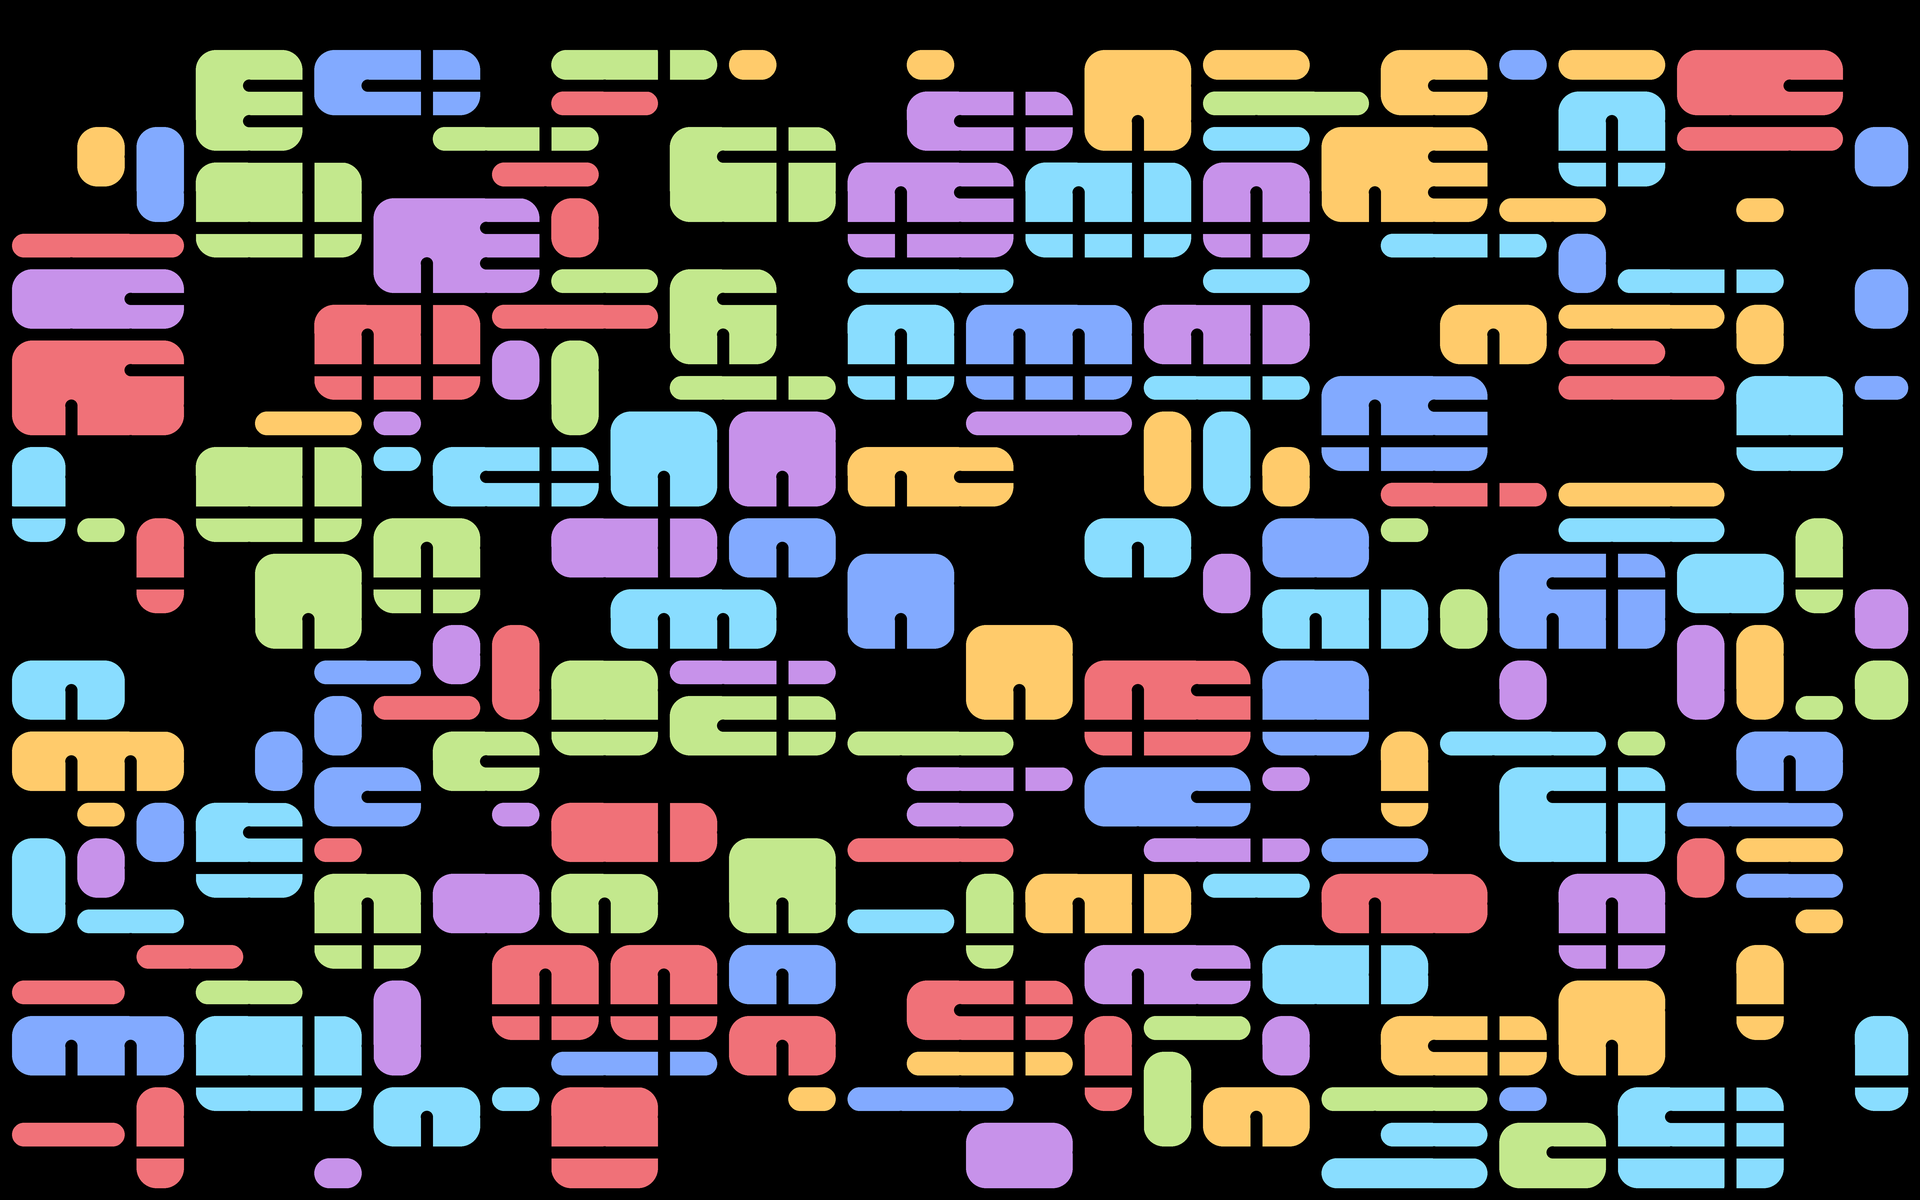
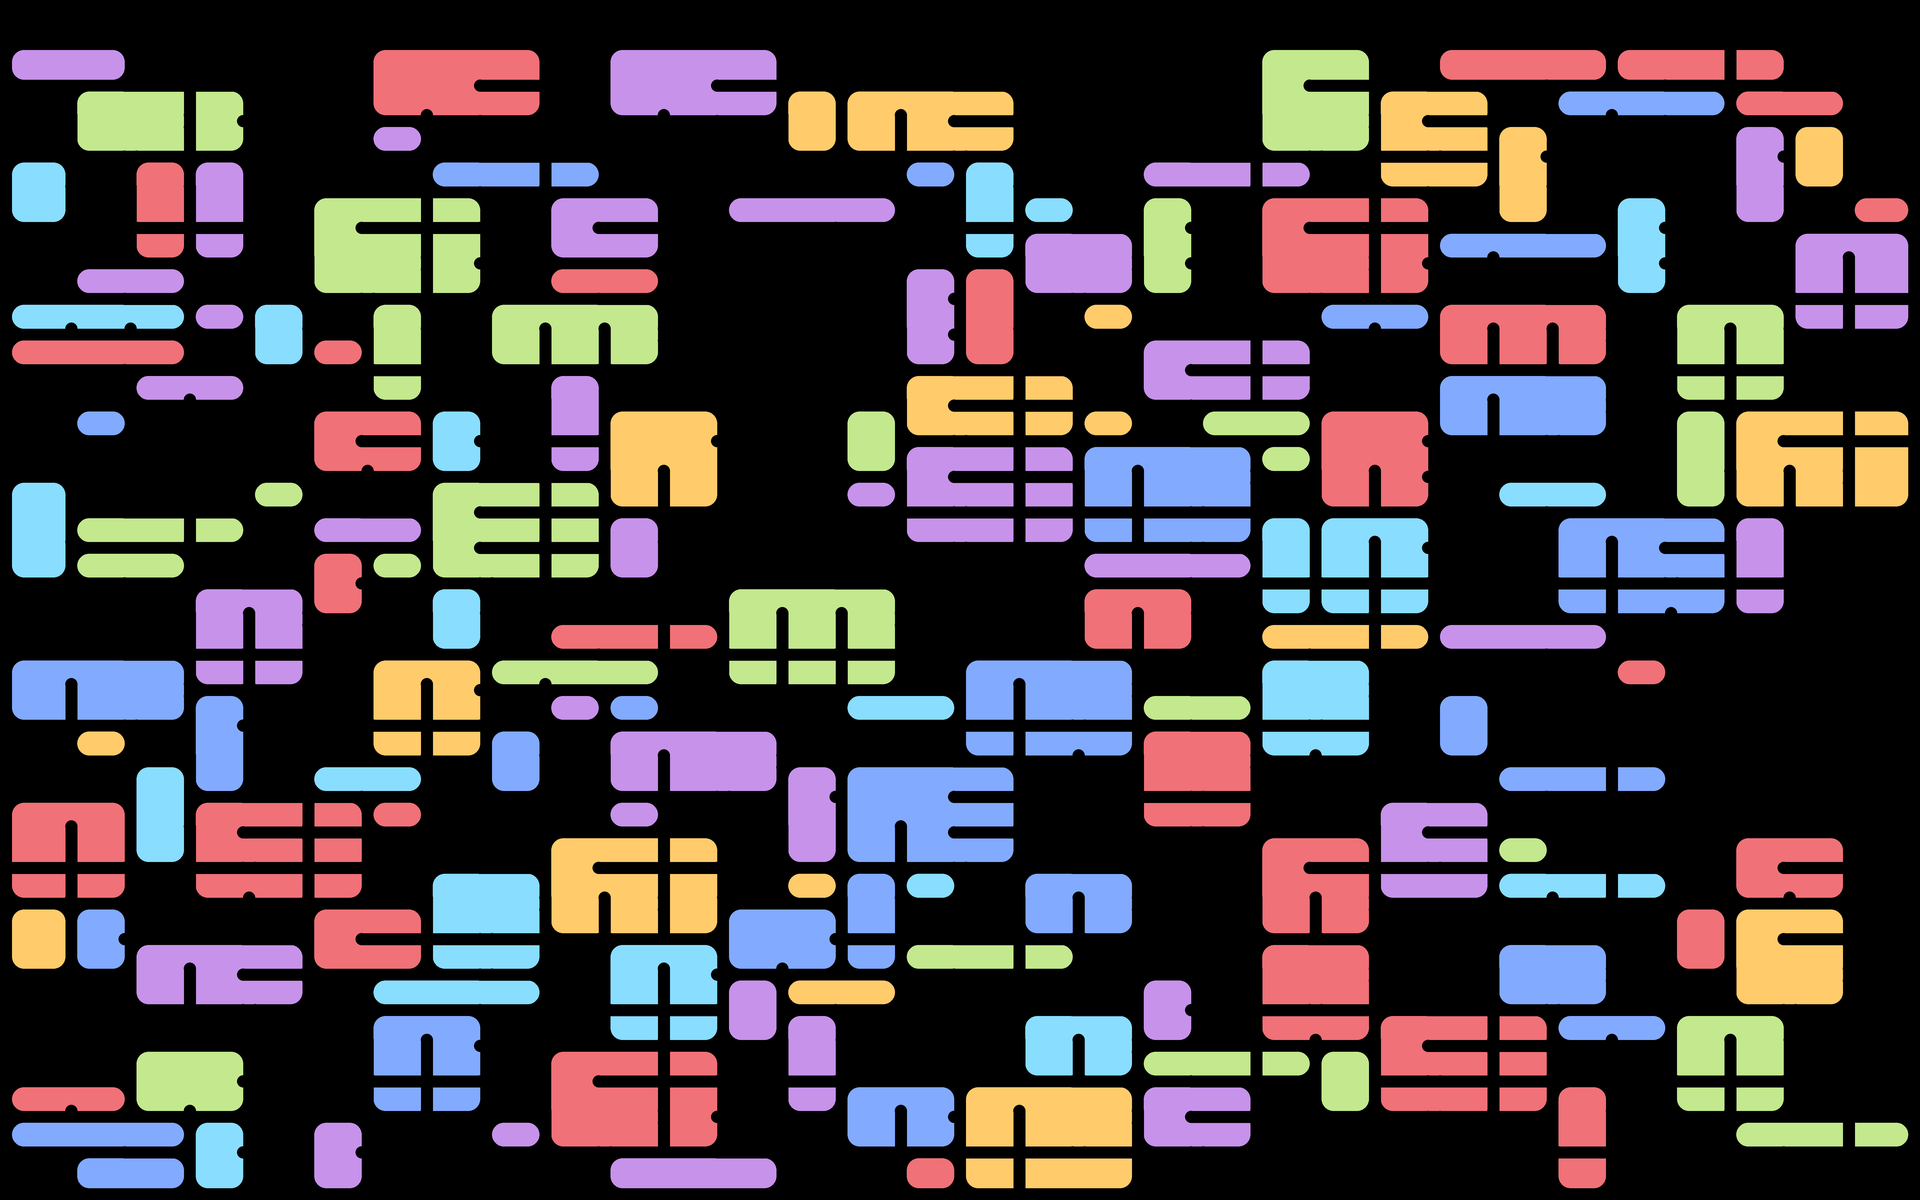
Refines shape rendering and grid line styling
Adjusts parameters for shape rendering, including reduced fill probability, smaller corner radius, and explicit shape padding. Improves grid line styling by introducing configurable line thickness, rounded ends, and extensions. Enhances rendering scalability with higher resolution adjustments.

Updates related binary wallpaper assets.

diff --git a/wallpapers/doodle_wallpaper.py b/wallpapers/doodle_wallpaper.py
@@ -26,12 +26,15 @@ MONITORS = [
 MIN_DEPTH = 2  # Minimum recursion depth (smaller shapes)
 MAX_DEPTH = 6  # Maximum recursion depth (larger shapes)
 RANDOM_SEED = None  # Set to None for truly random, or a number for reproducible results
-FILL_PROBABILITY = 0.5  # Probability (0-1) that a cell will be filled
-CORNER_RADIUS = 20  # Corner radius for rounded rectangles
+FILL_PROBABILITY = 0.4  # Probability (0-1) that a cell will be filled
+CORNER_RADIUS = 12  # Corner radius for rounded rectangles
 MAX_MERGE_SIZE = 3  # Maximum size of merged cells (1 = no merging, 2 = 2x2, 3 = 3x3, etc.)
 RENDER_SCALE = 4  # Render at higher resolution and downsample for smoother edges
 DRAW_GRID_LINES = True  # Set to True to draw grid lines for alignment verification
-SHAPE_MARGIN = 0.5  # Margin multiplier for shapes (0.5 = half gap, 1.0 = full gap, etc.)
+SHAPE_PADDING = 6  # Padding for shapes in pixels
+LINE_THICKNESS = 12  # Thickness of lines in pixels
+LINE_ROUNDED_ENDS = True  # Set to True to draw rounded end caps on lines
+LINE_EXTEND_ENDS = True  # Set to True to extend lines by radius amount
 GRID_LINE_COLOR = (0, 0, 0)  # Color for grid lines (default: black)
 
 # Color Palette (RGB tuples)
@@ -142,22 +145,31 @@ def draw_recursive_shapes(draw, x, y, w, h, level, min_level, padding, filled_ce
     
     # Draw grid lines if enabled (for debugging)
     if DRAW_GRID_LINES:
-        line_width = int(gap_px)  # Match gap width
+        line_width = int(LINE_THICKNESS * RENDER_SCALE)
         radius = line_width // 2
         
-        # Vertical line with rounded ends (extends to merge with caps)
-        draw.line([(mid_x, y), (mid_x, y + h)], fill=GRID_LINE_COLOR, width=line_width)
-        # Top circle cap centered at intersection
-        draw.ellipse([(mid_x - radius, y - radius), (mid_x + radius, y + radius)], fill=GRID_LINE_COLOR)
-        # Bottom circle cap centered at intersection
-        draw.ellipse([(mid_x - radius, y + h - radius), (mid_x + radius, y + h + radius)], fill=GRID_LINE_COLOR)
+        # Calculate line extension based on parameter
+        extend = radius if LINE_EXTEND_ENDS else 0
         
-        # Horizontal line with rounded ends (extends to merge with caps)
-        draw.line([(x, mid_y), (x + w, mid_y)], fill=GRID_LINE_COLOR, width=line_width)
-        # Left circle cap centered at intersection
-        draw.ellipse([(x - radius, mid_y - radius), (x + radius, mid_y + radius)], fill=GRID_LINE_COLOR)
-        # Right circle cap centered at intersection
-        draw.ellipse([(x + w - radius, mid_y - radius), (x + w + radius, mid_y + radius)], fill=GRID_LINE_COLOR)
+        # Cap offset: if not extending, caps are at line start/end; if extending, caps are beyond
+        cap_offset = radius if LINE_EXTEND_ENDS else 0
+
+        # Vertical line
+        draw.line([(mid_x, y - extend), (mid_x, y + h + extend)], fill=GRID_LINE_COLOR, width=line_width)
+        
+        # Horizontal line
+        draw.line([(x - extend, mid_y), (x + w + extend, mid_y)], fill=GRID_LINE_COLOR, width=line_width)
+        
+        # Draw rounded end caps if enabled
+        if LINE_ROUNDED_ENDS:
+            # Top circle cap
+            draw.ellipse([(mid_x - radius, y - radius - cap_offset), (mid_x + radius, y + radius - cap_offset)], fill=GRID_LINE_COLOR)
+            # Bottom circle cap
+            draw.ellipse([(mid_x - radius, y + h - radius + cap_offset), (mid_x + radius, y + h + radius + cap_offset)], fill=GRID_LINE_COLOR)
+            # Left circle cap
+            draw.ellipse([(x - radius - cap_offset, mid_y - radius), (x + radius - cap_offset, mid_y + radius)], fill=GRID_LINE_COLOR)
+            # Right circle cap
+            draw.ellipse([(x + w - radius + cap_offset, mid_y - radius), (x + w + radius + cap_offset, mid_y + radius)], fill=GRID_LINE_COLOR)
     
     # Recurse into four quadrants
     draw_recursive_shapes(draw, x, y, new_w, new_h, level - 1, min_level, padding, filled_cells, container_x, container_y, container_w, container_h, corner_radius)
@@ -193,8 +205,8 @@ for m in MONITORS:
     container_w = container_w_logical * RENDER_SCALE
     container_h = container_h_logical * RENDER_SCALE
 
-    # Calculate padding for shapes based on margin parameter
-    padding = max(1, int(gap_px * SHAPE_MARGIN))
+    # Calculate padding for shapes and line thickness (at high resolution)
+    padding = int(SHAPE_PADDING * RENDER_SCALE)
 
     # 3. Create Image at higher resolution
     img = Image.new(
